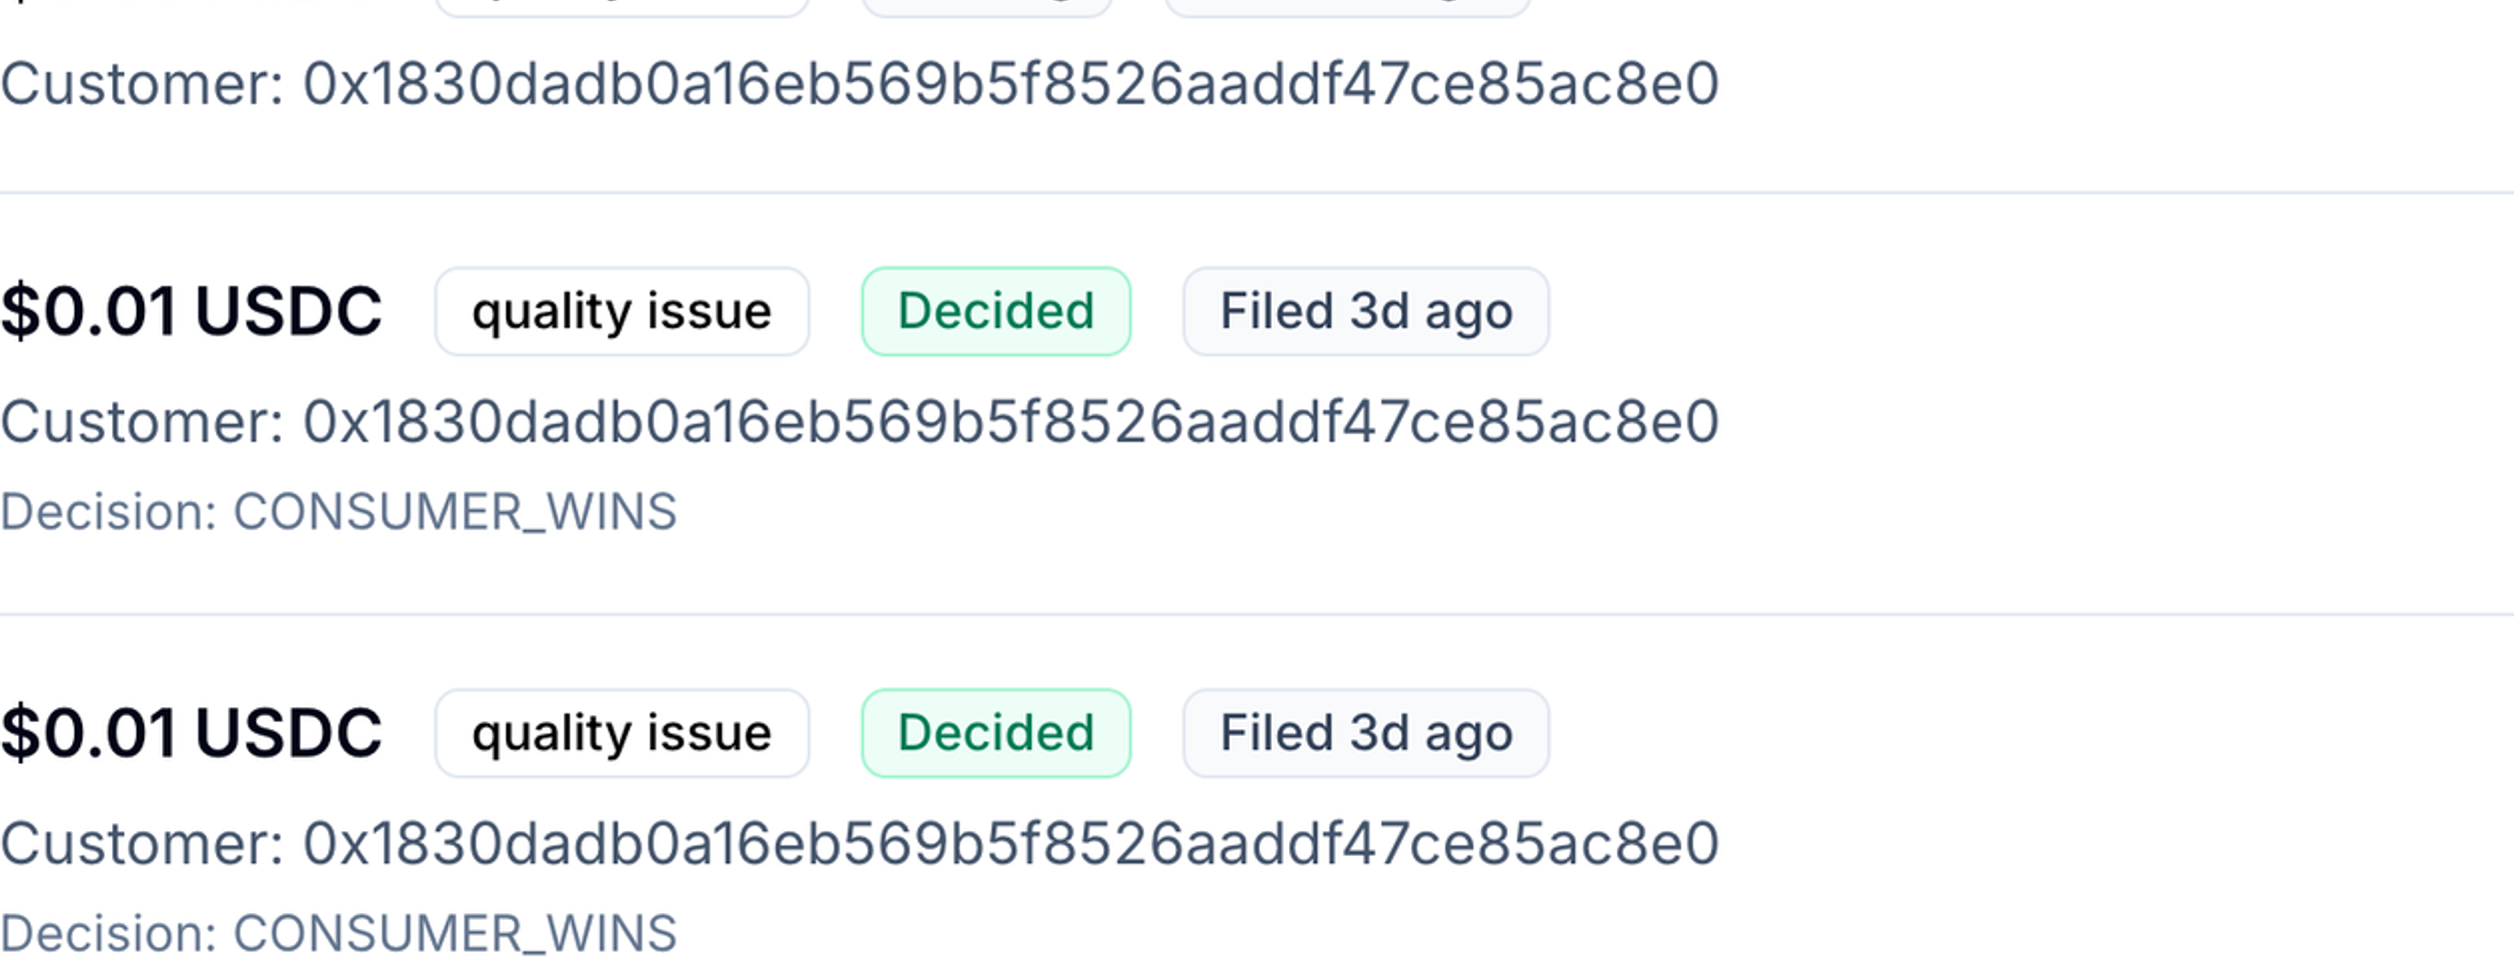
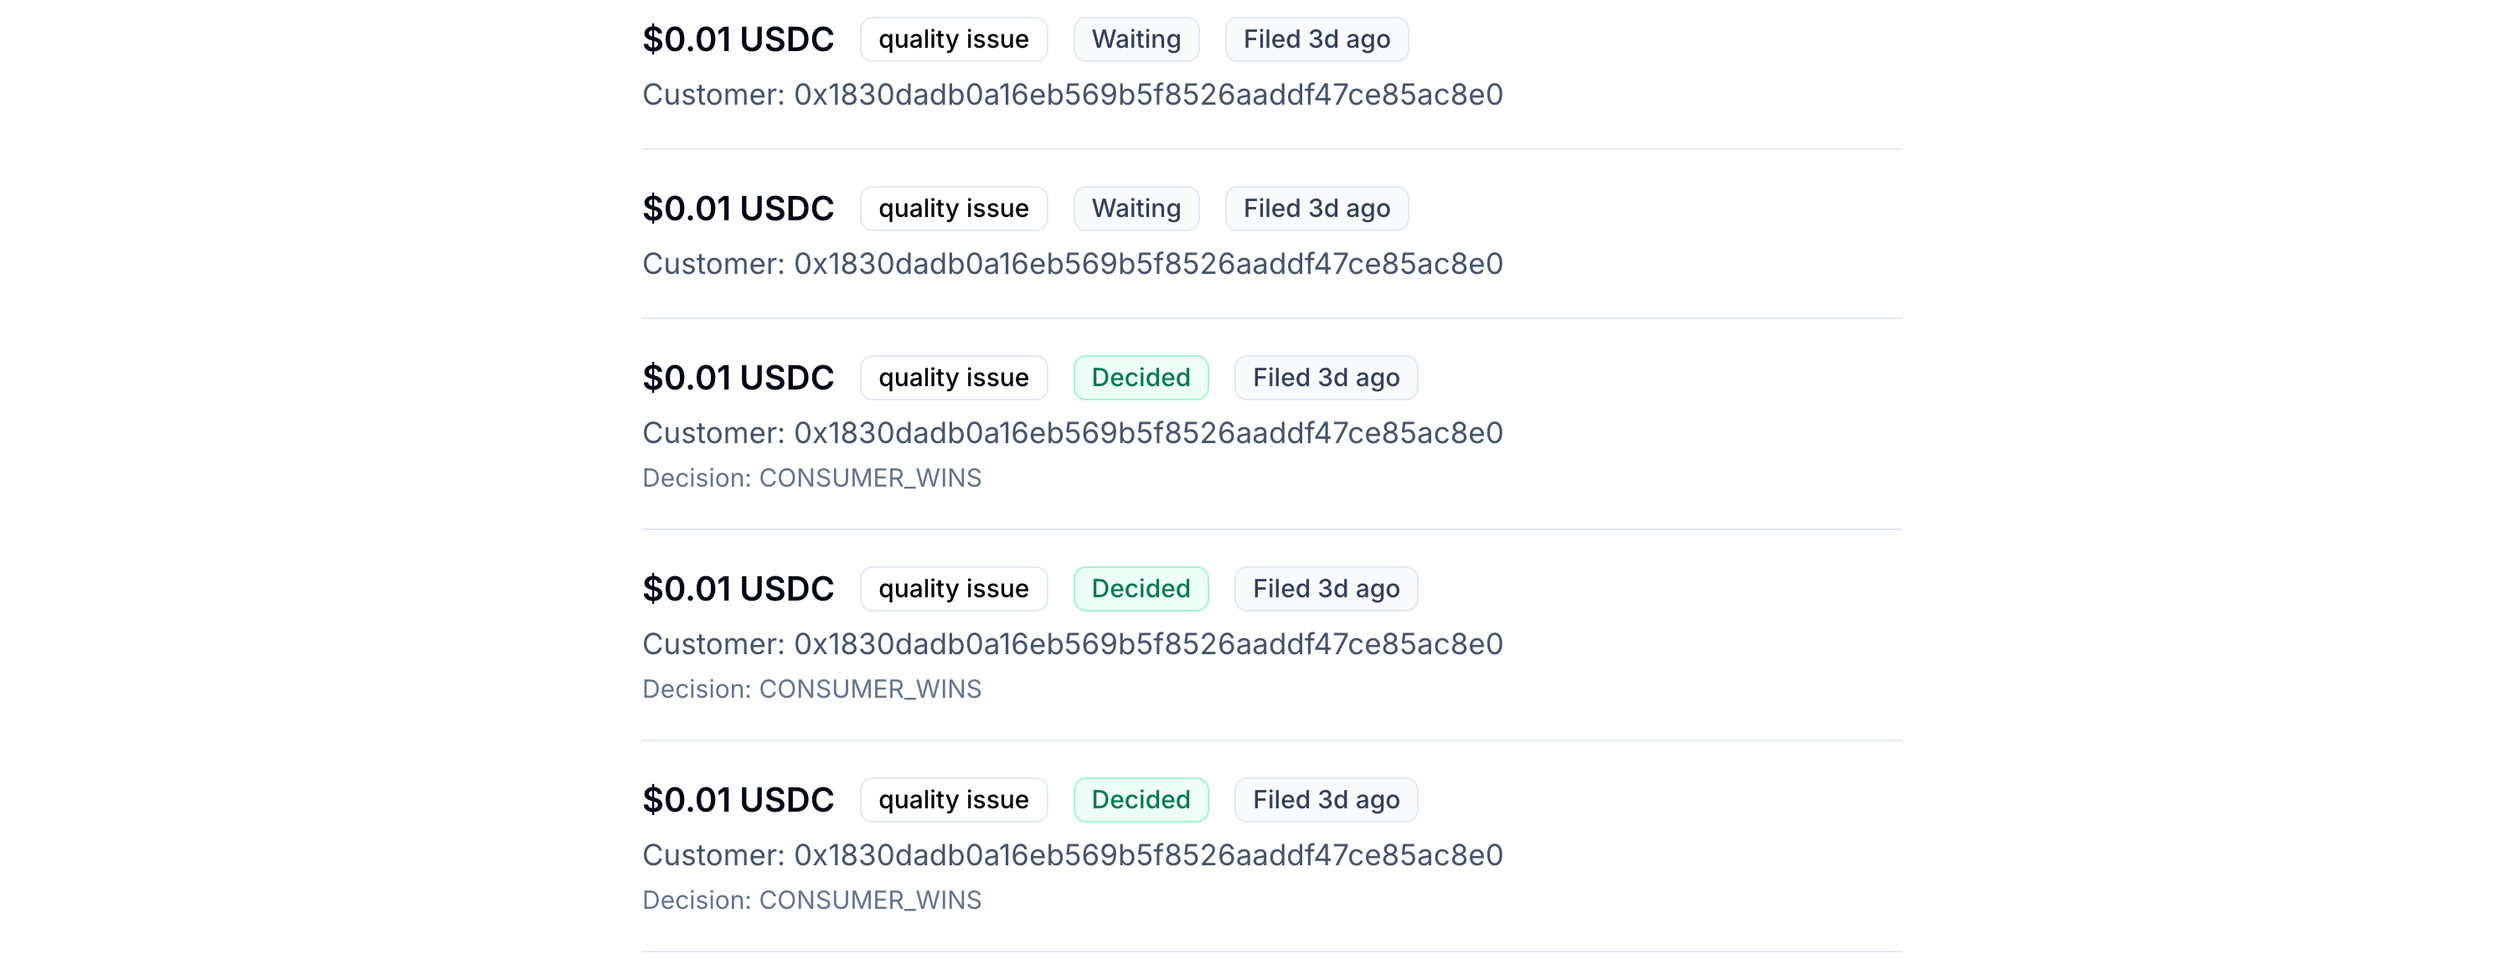
fix: add padding to landing screenshots

diff --git a/dashboard/src/app/page.tsx b/dashboard/src/app/page.tsx
@@ -19,23 +19,29 @@ function LandingScreenshot({
   aspect = "aspect-[16/10]",
   priority = false,
   className,
+  imageClassName,
 }: {
   src: string
   alt: string
   aspect?: string
   priority?: boolean
   className?: string
+  imageClassName?: string
 }) {
   return (
-    <div className={`relative w-full ${aspect} rounded-xl border border-slate-200 bg-white shadow-sm overflow-hidden ${className || ""}`}>
-      <Image
-        src={src}
-        alt={alt}
-        fill
-        priority={priority}
-        className="object-contain"
-        sizes="(min-width: 1024px) 50vw, 100vw"
-      />
+    <div className={`w-full ${aspect} rounded-xl border border-slate-200 bg-white shadow-sm overflow-hidden ${className || ""}`}>
+      <div className="w-full h-full p-4">
+        <div className="relative w-full h-full">
+          <Image
+            src={src}
+            alt={alt}
+            fill
+            priority={priority}
+            className={imageClassName || "object-contain"}
+            sizes="(min-width: 1024px) 50vw, 100vw"
+          />
+        </div>
+      </div>
     </div>
   )
 }
@@ -45,11 +51,15 @@ function ResponsiveLandingScreenshot({
   mobileSrc,
   alt,
   priority = false,
+  desktopAspect = "aspect-[16/10]",
+  mobileAspect = "aspect-[9/16]",
 }: {
   desktopSrc: string
   mobileSrc: string
   alt: string
   priority?: boolean
+  desktopAspect?: string
+  mobileAspect?: string
 }) {
   return (
     <>
@@ -57,14 +67,14 @@ function ResponsiveLandingScreenshot({
         src={desktopSrc}
         alt={alt}
         priority={priority}
-        aspect="aspect-[16/10]"
+        aspect={desktopAspect}
         className="hidden lg:block"
       />
       <LandingScreenshot
         src={mobileSrc}
         alt={alt}
         priority={priority}
-        aspect="aspect-[9/16]"
+        aspect={mobileAspect}
         className="lg:hidden"
       />
     </>
@@ -157,6 +167,7 @@ export default function HomePage() {
                 mobileSrc={ALL_DISPUTES_MOBILE_SRC}
                 alt="All disputes dashboard view"
                 priority
+                desktopAspect="aspect-[4/3]"
               />
               </div>
           </div>
